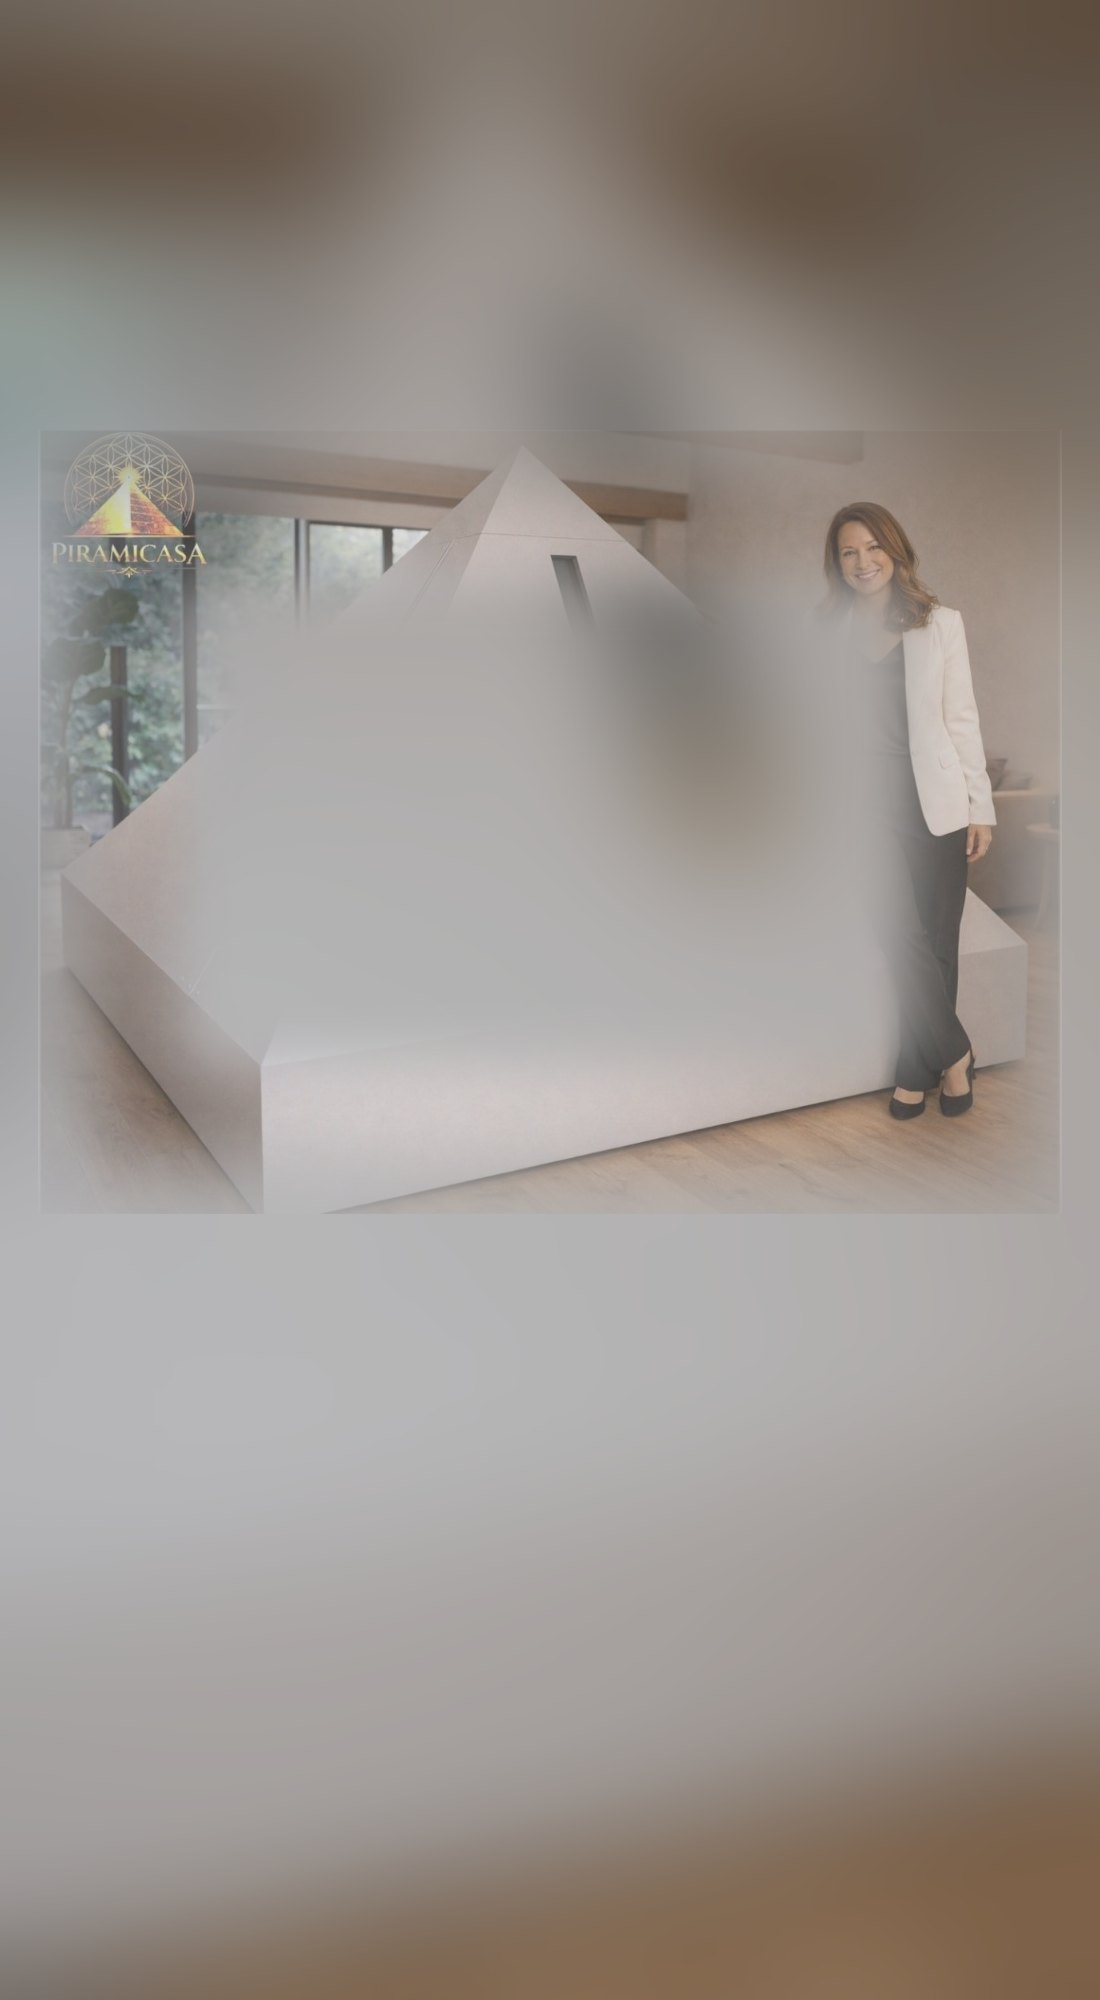
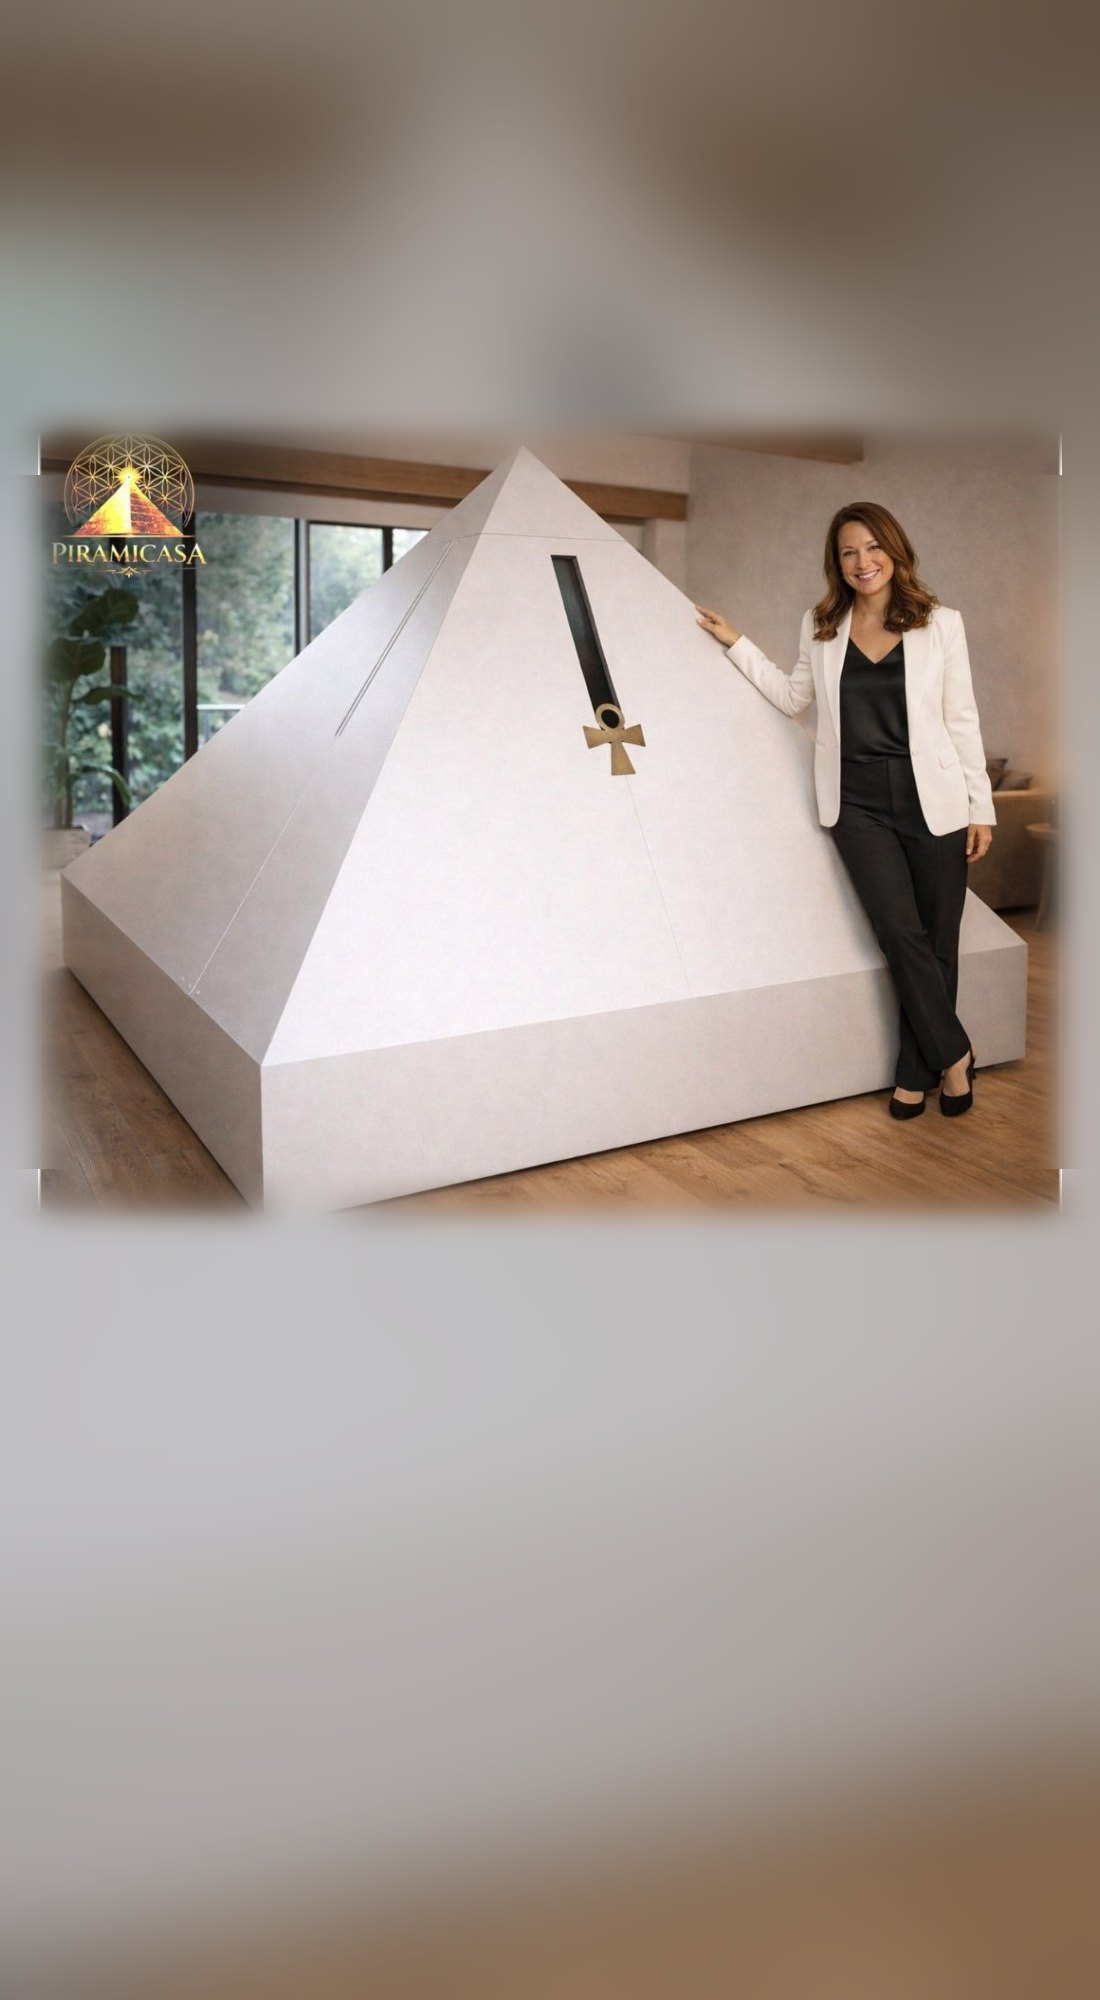
v3

Changed region(s): [[0.0309, 0.186, 0.9891, 0.62]]

diff --git a/assets/mobile-fix.css b/assets/mobile-fix.css
@@ -421,5 +421,5 @@ html[dir="rtl"] .pm-aval-paused{right:auto;left:12px}
 
 /* Hero: on narrow/portrait screens use the tall photo so the subject is visible */
 @media (max-width:900px),(orientation:portrait){
-.pm-hero{background-image:linear-gradient(135deg,rgba(31,42,40,.55),rgba(74,124,117,.38) 50%,rgba(31,42,40,.55)),url(piramicasa/hero-portada-mobile.jpg?v=2)!important;background-size:auto,cover!important;background-position:50%,50% 42%!important;background-repeat:no-repeat!important}
+.pm-hero{background-image:linear-gradient(135deg,rgba(31,42,40,.55),rgba(74,124,117,.38) 50%,rgba(31,42,40,.55)),url(piramicasa/hero-portada-mobile.jpg?v=3)!important;background-size:auto,cover!important;background-position:50%,50% 42%!important;background-repeat:no-repeat!important}
 }
